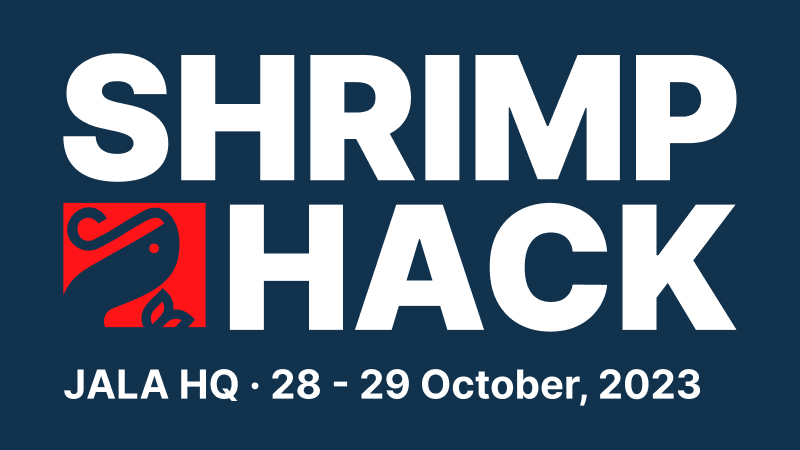
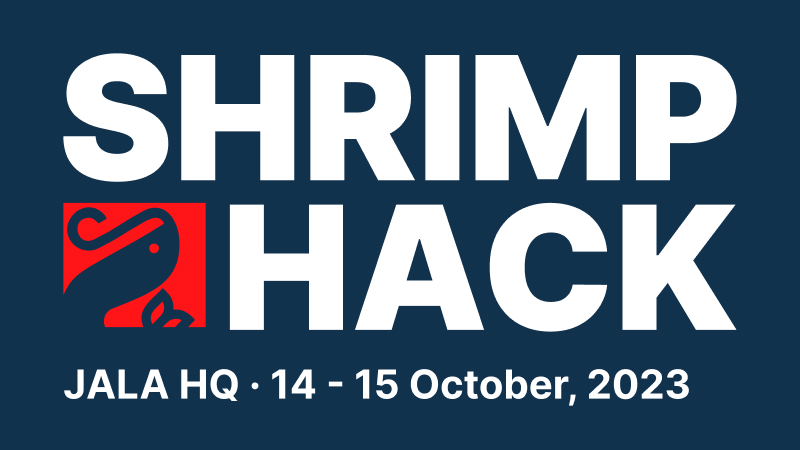
fix(seo): fixing seo issue on homepage

Changed region(s): [[0.3438, 0.8089, 0.875, 0.9022]]

diff --git a/pages/index.jsx b/pages/index.jsx
@@ -41,108 +41,14 @@ const prizes = [
   },
 ];
 
-export default function Home({ seo }) {
-  // console.log(seo);
-  const {
-    data: repos,
-    error: repoDataError,
-    isLoading: repoDataLoading,
-  } = useSWR(
-    `${process.env.NEXT_PUBLIC_AIRTABLE_URI}/2022_repositories`,
-    (url) =>
-      fetcher(url, {
-        headers: {
-          Accept: "application/json",
-          Authorization: `Bearer ${process.env.NEXT_PUBLIC_AIRTABLE_TOKEN}`,
-        },
-      }),
-    {
-      revalidateIfStale: false,
-      revalidateOnFocus: false,
-      revalidateOnReconnect: false,
-    }
-  );
-
-  const {
-    data: galleries,
-    error: galleryDataError,
-    isLoading: galleryDataLoading,
-  } = useSWR(
-    `${process.env.NEXT_PUBLIC_AIRTABLE_URI}/galleries`,
-    (url) =>
-      fetcher(url, {
-        headers: {
-          Accept: "application/json",
-          Authorization: `Bearer ${process.env.NEXT_PUBLIC_AIRTABLE_TOKEN}`,
-        },
-      }),
-    {
-      revalidateIfStale: false,
-      revalidateOnFocus: false,
-      revalidateOnReconnect: false,
-    }
-  );
-
-  const {
-    data: image,
-    error: imageDataError,
-    isLoading: imageDataLoading,
-  } = useSWR(
-    `${process.env.NEXT_PUBLIC_AIRTABLE_URI}/content_image`,
-    (url) =>
-      fetcher(url, {
-        headers: {
-          Accept: "application/json",
-          Authorization: `Bearer ${process.env.NEXT_PUBLIC_AIRTABLE_TOKEN}`,
-        },
-      }),
-    {
-      revalidateIfStale: false,
-      revalidateOnFocus: false,
-      revalidateOnReconnect: false,
-    }
-  );
-
-  const {
-    data: testimonies,
-    error: testiDataError,
-    isLoading: testiDataLoading,
-  } = useSWR(
-    `${process.env.NEXT_PUBLIC_AIRTABLE_URI}/testimonies?filterByFormula=verified`,
-    (url) =>
-      fetcher(url, {
-        headers: {
-          Accept: "application/json",
-          Authorization: `Bearer ${process.env.NEXT_PUBLIC_AIRTABLE_TOKEN}`,
-        },
-      }),
-    {
-      revalidateIfStale: false,
-      revalidateOnFocus: false,
-      revalidateOnReconnect: false,
-    }
-  );
-
-  const {
-    data: tracks,
-    error: tracksDataError,
-    isLoading: tracksDataLoading,
-  } = useSWR(
-    `${process.env.NEXT_PUBLIC_AIRTABLE_URI}/tracks?sort%5B0%5D%5Bfield%5D=sort`,
-    (url) =>
-      fetcher(url, {
-        headers: {
-          Accept: "application/json",
-          Authorization: `Bearer ${process.env.NEXT_PUBLIC_AIRTABLE_TOKEN}`,
-        },
-      }),
-    {
-      revalidateIfStale: false,
-      revalidateOnFocus: false,
-      revalidateOnReconnect: false,
-    }
-  );
-
+export default function Home({
+  seo,
+  repos,
+  galleries,
+  contentImages,
+  testimonies,
+  tracks,
+}) {
   const options = {
     type: "loop",
     arrows: false,
@@ -154,14 +60,14 @@ export default function Home({ seo }) {
 
   // console.log(image);
 
-  const headerImage = image
-    ? image.records.find((r) => {
+  const headerImage = contentImages
+    ? contentImages.records.find((r) => {
         return r.fields.name == "header";
       })
     : null;
 
-  const aboutImage = image
-    ? image.records.find((r) => {
+  const aboutImage = contentImages
+    ? contentImages.records.find((r) => {
         return r.fields.name == "about";
       })
     : null;
@@ -172,7 +78,7 @@ export default function Home({ seo }) {
       })
     : null;
 
-  if (imageDataLoading)
+  if (!contentImages || !galleries)
     return (
       <PageLayout>
         <PageContent>
@@ -505,6 +411,66 @@ export default function Home({ seo }) {
 export async function getStaticProps() {
   // const res = await fetch('https://api.github.com/repos/vercel/next.js')
   // const repo = await res.json()
+
+  const repoRes = await fetch(
+    `${process.env.NEXT_PUBLIC_AIRTABLE_URI}/2022_repositories`,
+    {
+      headers: {
+        Accept: "application/json",
+        Authorization: `Bearer ${process.env.NEXT_PUBLIC_AIRTABLE_TOKEN}`,
+      },
+    }
+  );
+  const repos = await repoRes.json();
+
+  const galleriesRes = await fetch(
+    `${process.env.NEXT_PUBLIC_AIRTABLE_URI}/galleries`,
+    {
+      headers: {
+        Accept: "application/json",
+        Authorization: `Bearer ${process.env.NEXT_PUBLIC_AIRTABLE_TOKEN}`,
+      },
+    }
+  );
+
+  const galleries = await galleriesRes.json();
+
+  const contentImageRes = await fetch(
+    `${process.env.NEXT_PUBLIC_AIRTABLE_URI}/content_image`,
+    {
+      headers: {
+        Accept: "application/json",
+        Authorization: `Bearer ${process.env.NEXT_PUBLIC_AIRTABLE_TOKEN}`,
+      },
+    }
+  );
+
+  const contentImages = await contentImageRes.json();
+
+  const testimoniesRes = await fetch(
+    `${process.env.NEXT_PUBLIC_AIRTABLE_URI}/testimonies?filterByFormula=verified`,
+    {
+      headers: {
+        Accept: "application/json",
+        Authorization: `Bearer ${process.env.NEXT_PUBLIC_AIRTABLE_TOKEN}`,
+      },
+    }
+  );
+
+  const testimonies = await testimoniesRes.json();
+
+  const trackRes = await fetch(
+    `${process.env.NEXT_PUBLIC_AIRTABLE_URI}/tracks?sort%5B0%5D%5Bfield%5D=sort`,
+    {
+      headers: {
+        Accept: "application/json",
+        Authorization: `Bearer ${process.env.NEXT_PUBLIC_AIRTABLE_TOKEN}`,
+      },
+    }
+  );
+
+  const tracks = await trackRes.json();
+
   return {
     props: {
       seo: {
@@ -534,6 +500,11 @@ export async function getStaticProps() {
           cardType: "summary_large_image",
         },
       },
+      repos: repos,
+      galleries: galleries,
+      contentImages: contentImages,
+      testimonies: testimonies,
+      tracks: tracks,
     },
   };
 }

diff --git a/pages/register.jsx b/pages/register.jsx
@@ -168,7 +168,7 @@ export default function Register() {
   return (
     <PageLayout>
       <NextSeo
-        title="Pendaftaran | ShrimpHack 2023 🍤"
+        title="Register | ShrimpHack 2023 🍤"
         description="ShrimpHack is a competitive weekend-long internal event of JALA
         where Warga JALA come together to work on cool projects. Join on 14 - 15 October, 2023."
         canonical="https://www.shrimphack.com/register"
